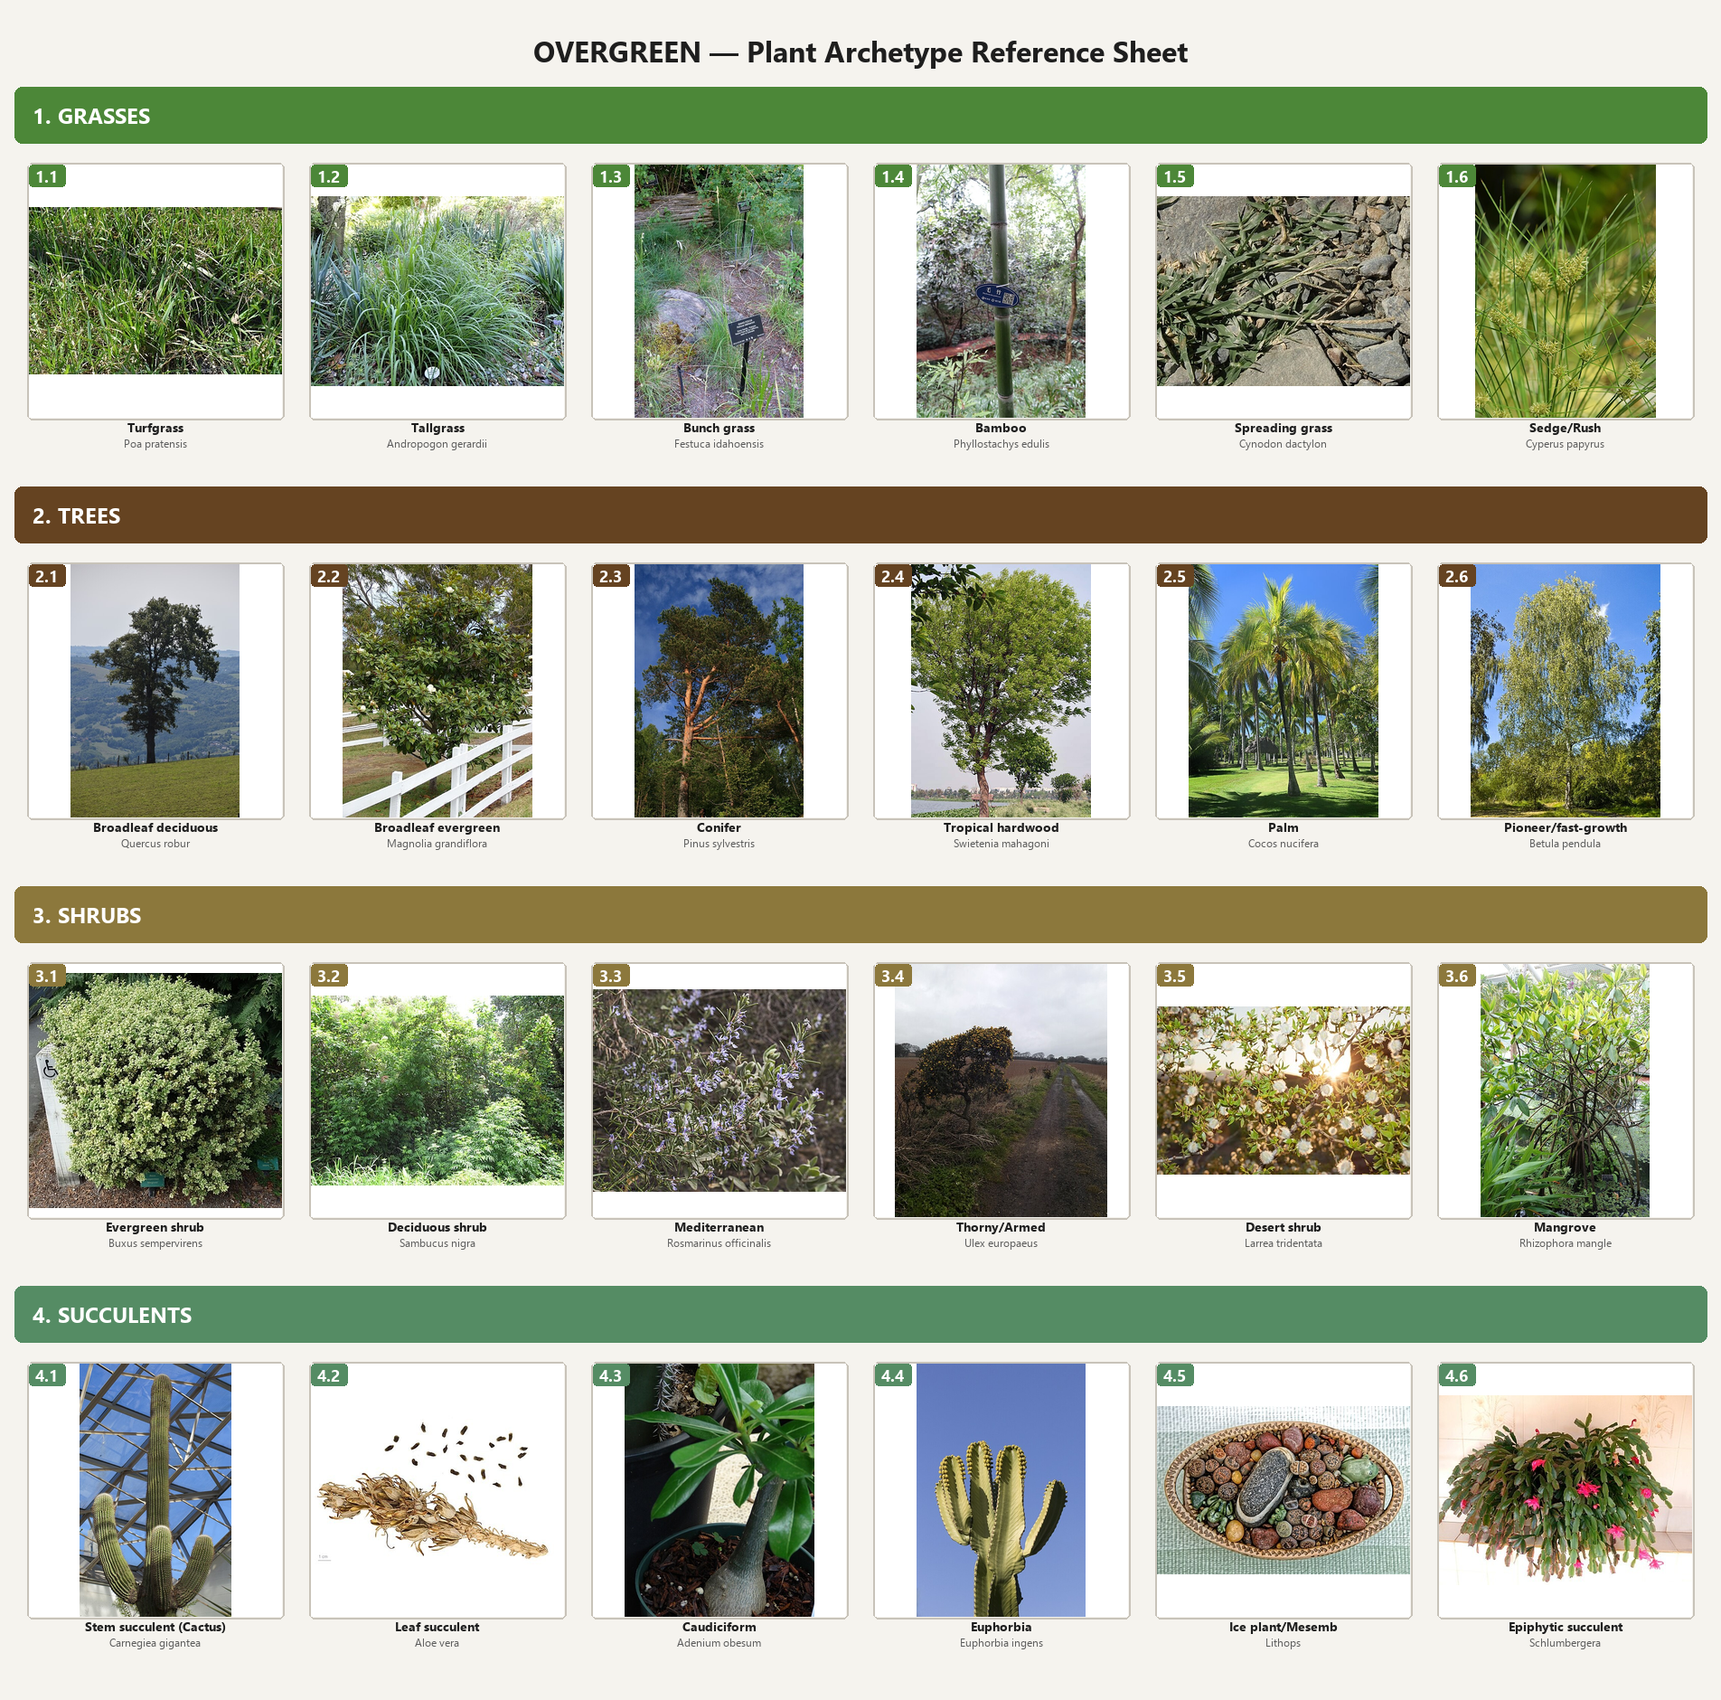
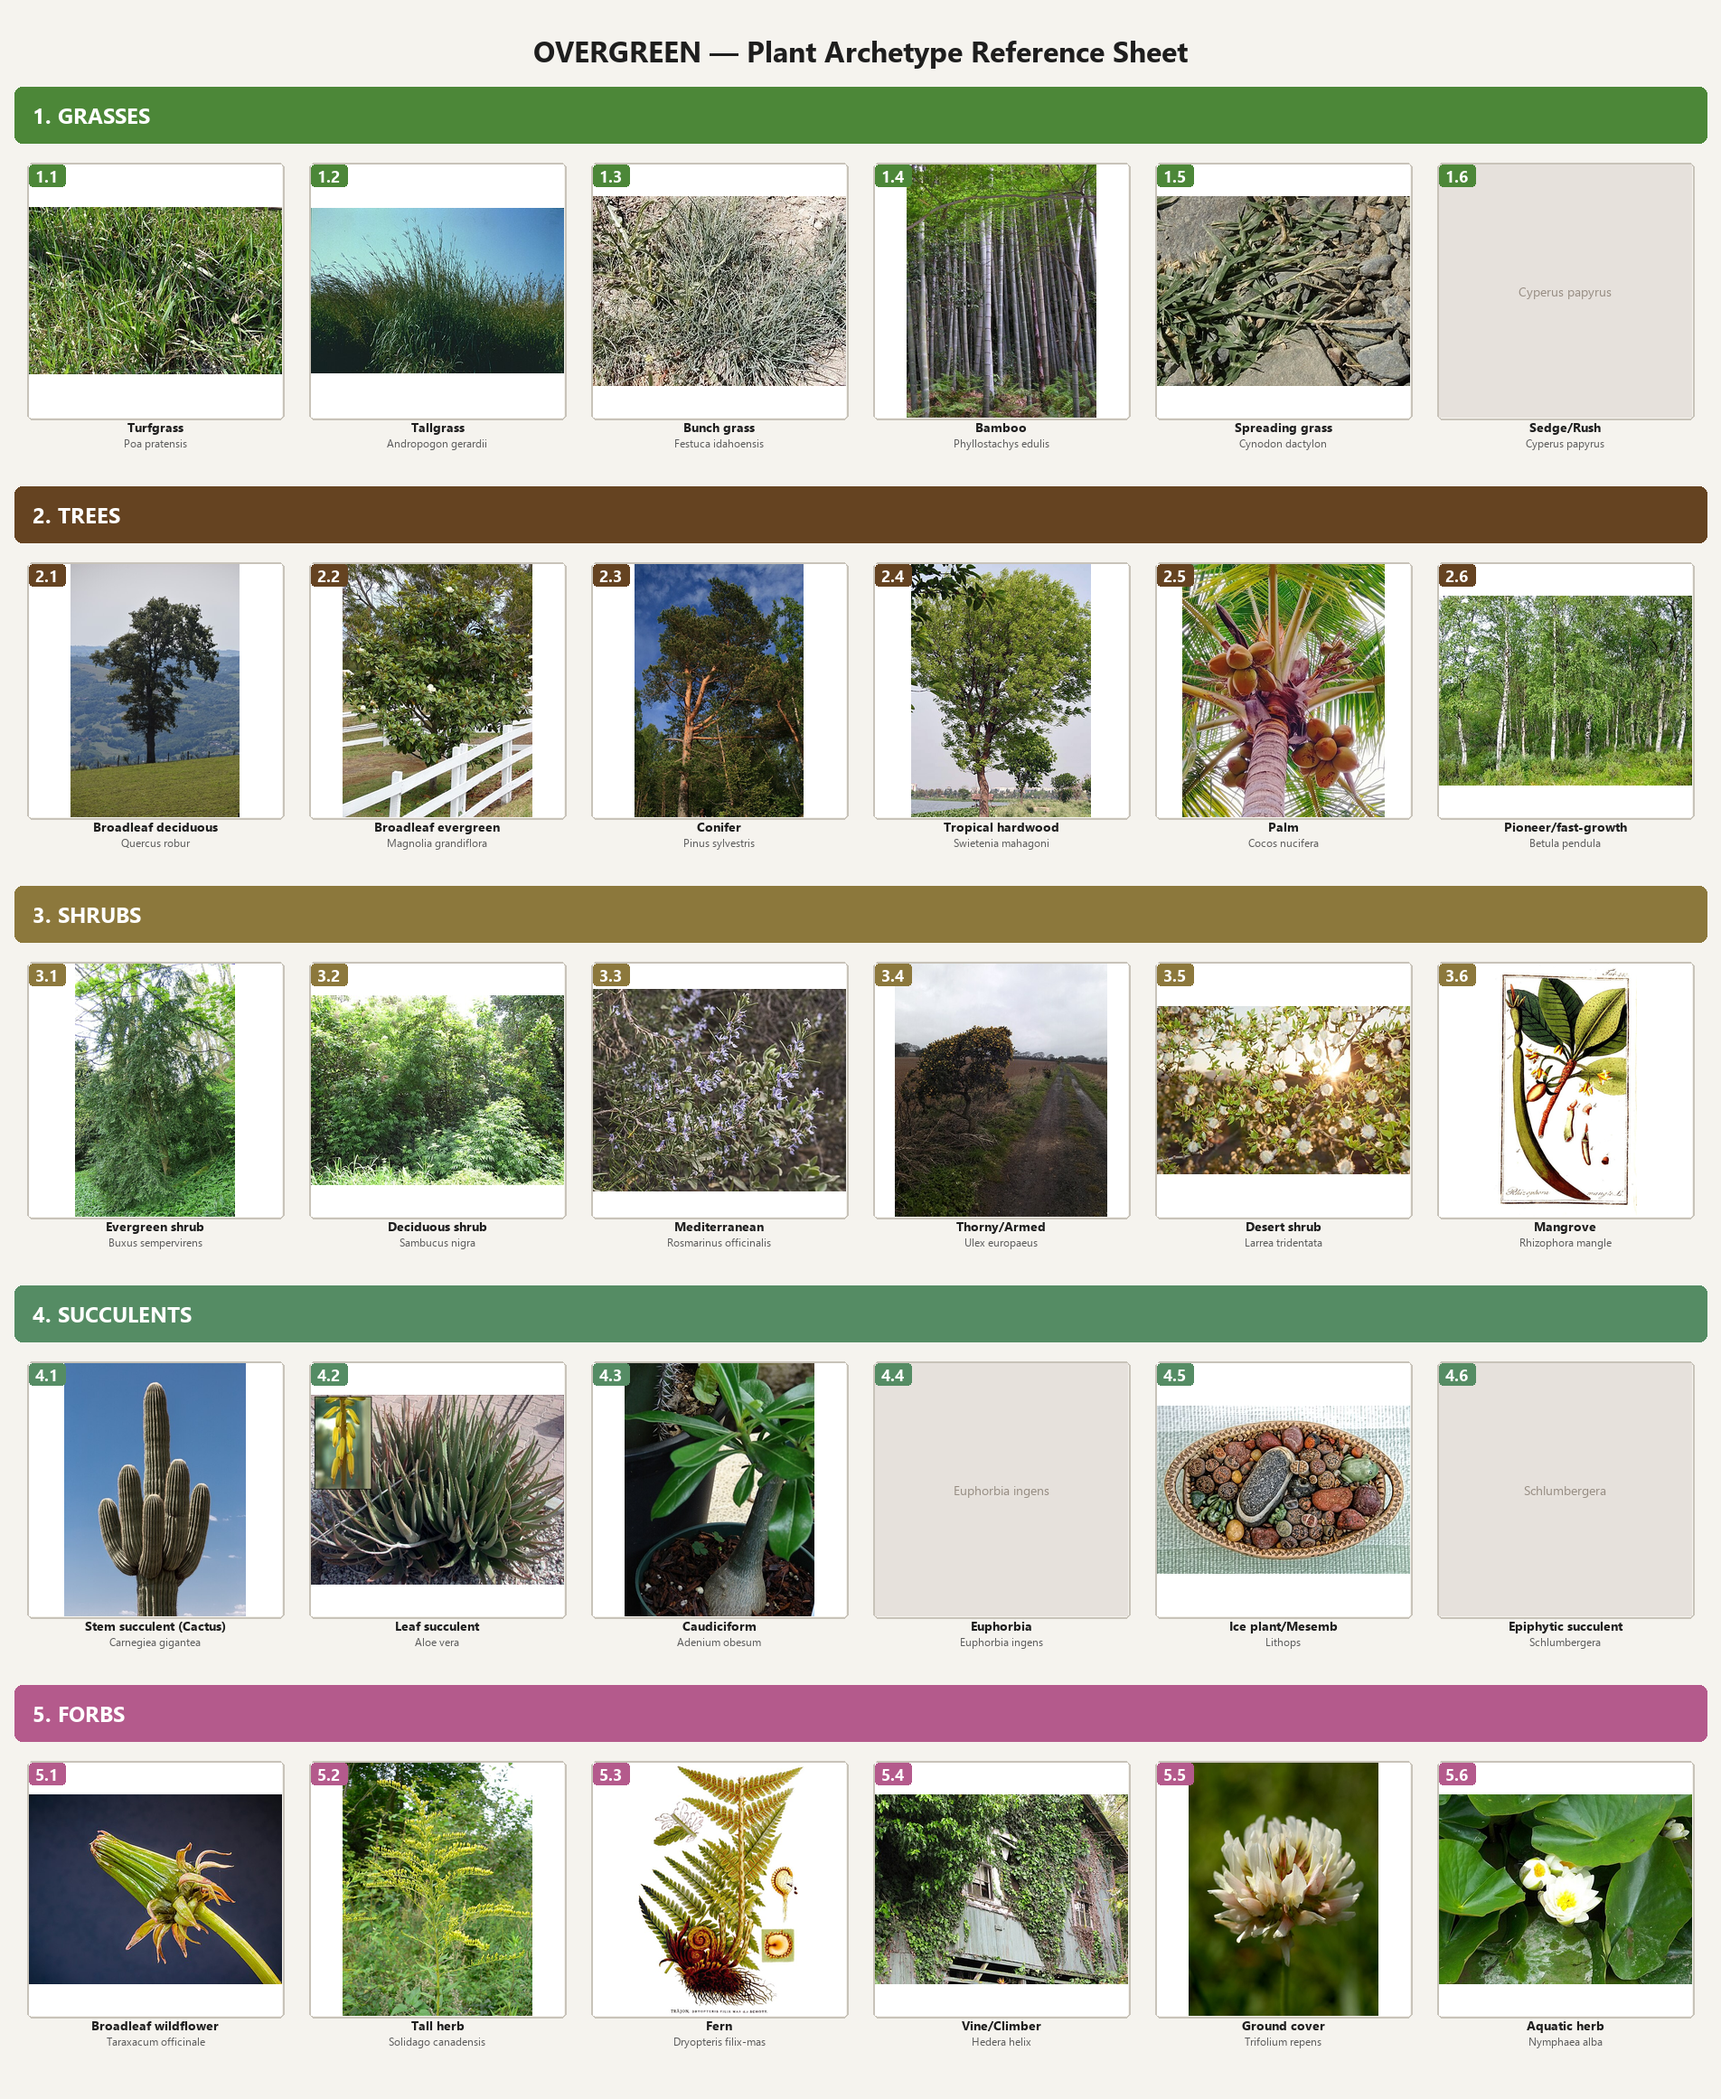
Add Forbs/Herbaceous category (5.1-5.6) to plant reference sheet
New archetype covers the most ecologically important missing group:
dandelion, goldenrod, fern, ivy, clover, water lily.

diff --git a/scripts/plant_reference_sheet.py b/scripts/plant_reference_sheet.py
@@ -45,6 +45,14 @@ ARCHETYPES = {
         ("4.5", "Ice plant/Mesemb",        "Lithops"),             # Living stones
         ("4.6", "Epiphytic succulent",     "Schlumbergera"),       # Christmas cactus
     ],
+    "FORBS": [
+        ("5.1", "Broadleaf wildflower",  "Taraxacum officinale"),   # Dandelion
+        ("5.2", "Tall herb",             "Solidago canadensis"),    # Goldenrod
+        ("5.3", "Fern",                  "Dryopteris filix-mas"),   # Male fern
+        ("5.4", "Vine/Climber",          "Hedera helix"),           # English ivy
+        ("5.5", "Ground cover",          "Trifolium repens"),       # White clover
+        ("5.6", "Aquatic herb",          "Nymphaea alba"),          # White water lily
+    ],
 }
 
 CACHE_DIR = os.path.join(os.path.dirname(__file__), ".plant_img_cache")
@@ -80,6 +88,10 @@ SEARCH_OVERRIDES: dict[str, list[str]] = {
     "2.3": ["Pinus sylvestris tree forest standing", "Scots pine tree"],
     "3.3": ["Arctostaphylos manzanita shrub", "manzanita bush whole plant"],
     "3.4": ["Ulex europaeus bush gorse", "gorse shrub thorny"],
+    "5.1": ["Taraxacum officinale plant flower", "dandelion whole plant"],
+    "5.4": ["Hedera helix climbing wall", "english ivy plant"],
+    "5.5": ["Trifolium repens clover field", "white clover ground cover"],
+    "5.6": ["Nymphaea alba water lily pond", "white water lily flower"],
 }
 
 # Words in filenames that indicate fruit/seed/closeup — skip these
@@ -239,7 +251,7 @@ PADDING = 16
 LABEL_H = 60    # Space for text below each image
 HEADER_H = 70   # Space for archetype header row
 COLS = 6        # Subtypes per archetype
-ROWS = 4        # Archetypes
+ROWS = 5        # Archetypes
 
 # Colors
 BG_COLOR = (245, 243, 238)
@@ -248,6 +260,7 @@ HEADER_COLORS = {
     "TREES":      (101, 67, 33),
     "SHRUBS":     (140, 120, 60),
     "SUCCULENTS": (85, 140, 100),
+    "FORBS":      (180, 90, 140),
 }
 TEXT_COLOR = (30, 30, 30)
 SUBTEXT_COLOR = (90, 90, 90)
